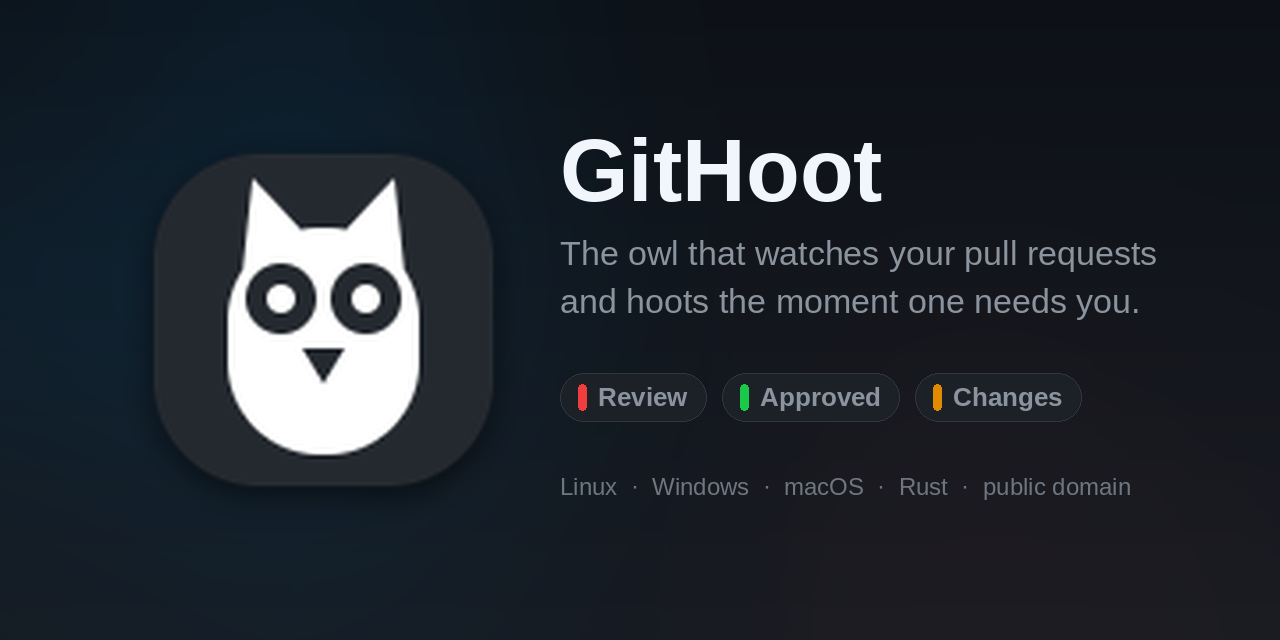
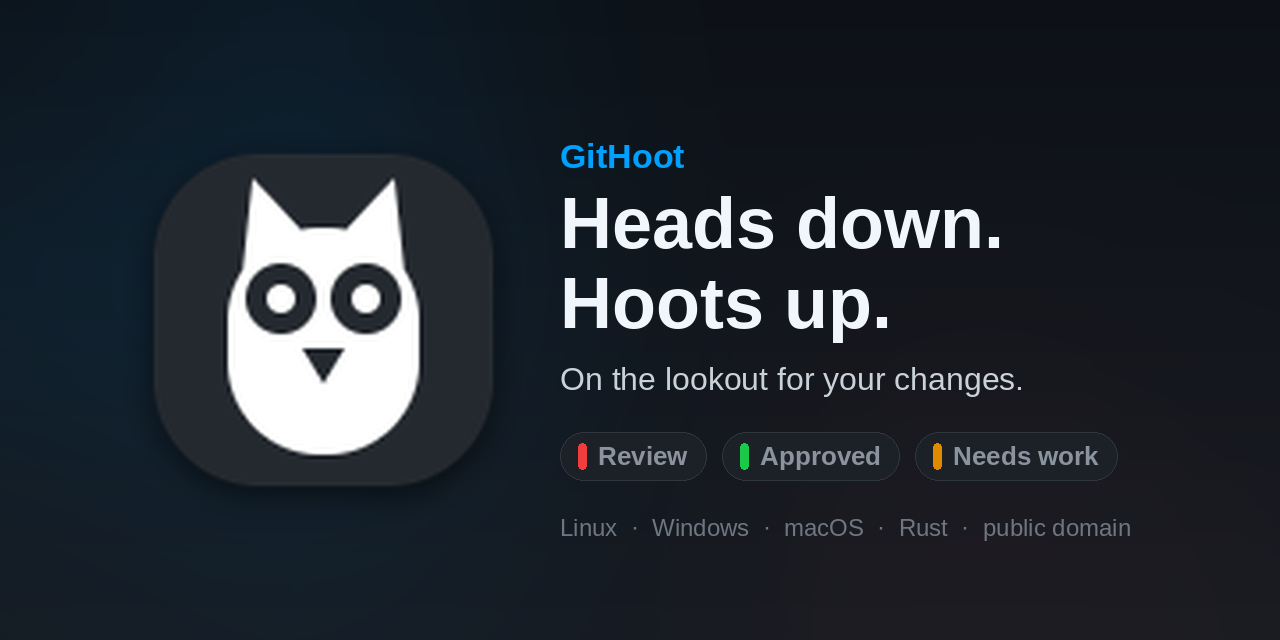
Give the README and social preview a catchier pitch

diff --git a/scripts/make-social-preview.py b/scripts/make-social-preview.py
@@ -172,16 +172,19 @@ def banner() -> None:
 
     d = ImageDraw.Draw(img)
     x = 560
-    d.text((x, 201), "GitHoot", font=font(SANS_BOLD, 88), fill=TITLE, anchor="ls")
-    d.text((x, 265), "The owl that watches your pull requests", font=font(SANS, 34), fill=MUTED, anchor="ls")
-    d.text((x, 313), "and hoots the moment one needs you.", font=font(SANS, 34), fill=MUTED, anchor="ls")
+    # The name small, the line big: on a 400px card the hook is what has to read, and the name is
+    # already in the repository title above it.
+    d.text((x, 168), "GitHoot", font=font(SANS_BOLD, 34), fill=BLUE, anchor="ls")
+    d.text((x, 248), "Heads down.", font=font(SANS_BOLD, 72), fill=TITLE, anchor="ls")
+    d.text((x, 328), "Hoots up.", font=font(SANS_BOLD, 72), fill=TITLE, anchor="ls")
+    d.text((x, 390), "On the lookout for your changes.", font=font(SANS, 32), fill=(201, 209, 217), anchor="ls")
 
     f = font(SANS_BOLD, 26)
     cx = x
-    for label, colour in (("Review", RED), ("Approved", GREEN), ("Changes", AMBER)):
-        cx = pill(d, cx, 373, label, colour, f) + 16
+    for label, colour in (("Review", RED), ("Approved", GREEN), ("Needs work", AMBER)):
+        cx = pill(d, cx, 432, label, colour, f) + 16
 
-    d.text((x, 495), "Linux  ·  Windows  ·  macOS  ·  Rust  ·  public domain", font=font(SANS, 24), fill=FAINT, anchor="ls")
+    d.text((x, 536), "Linux  ·  Windows  ·  macOS  ·  Rust  ·  public domain", font=font(SANS, 24), fill=FAINT, anchor="ls")
 
     img.convert("RGB").save(OUT_BANNER, optimize=True)
     print(f"wrote {OUT_BANNER.relative_to(ROOT)} ({img.width}x{img.height})")

diff --git a/README.md b/README.md
@@ -1,8 +1,11 @@
 <div align="center">
 
-<img src="docs/social-preview.png" alt="GitHoot — the owl that watches your pull requests" width="760">
+<img src="docs/social-preview.png" alt="GitHoot: heads down, hoots up" width="760">
 
-### A tray owl that watches your pull requests and hoots the moment one needs you.
+### Heads down. Hoots up.
+
+An owl in your system tray, on the lookout for your changes on GitHub and GitLab.<br>
+It lights up when something needs you, and hoots once when it is news.
 
 [![Release](https://img.shields.io/github/v/release/HerrDerb/githoot?label=release&color=1ac94a)](../../releases/latest)
 [![CI](https://github.com/HerrDerb/githoot/actions/workflows/ci.yml/badge.svg)](../../actions/workflows/ci.yml)
@@ -18,29 +21,27 @@
 
 ## Why
 
-- **In sync.** It asks GitHub itself, at least every 60 seconds. Email tells you once and then goes
-  stale; a bar here is true right now, and clears itself the moment you act.
-- **In view.** Always on screen, no tab to open and no inbox to sweep. One glance says whether a
-  teammate is waiting on you.
-- **It hoots.** A pull request you have not been told about makes a sound, so you react in minutes
-  instead of at the next sweep. It knows the difference between a new one and GitHub's search index
-  handing the same one back → [the hoot](docs/hoot.md).
+- **Stay in flow.** No tab to refresh, no inbox to sweep. The owl asks your forge itself, at least once
+  a minute, so you can keep your head down.
+- **Know at a glance.** Three coloured bars on one icon say whether anything is waiting on you. Act on
+  it and the bar clears itself.
+- **Hear only news.** One hoot when something new needs you, silence the rest of the time. It can tell
+  a new pull request from the same one handed back by a flaky search index → [the hoot](docs/hoot.md).
 
-Three things it watches:
+What it is on the lookout for:
 
 | | |
 |:---:|---|
 | <img src="docs/icons/tray_review.png" height="26"> | **somebody wants your review** |
-| <img src="docs/icons/tray_merge.png" height="26"> | **your pull request was approved** |
-| <img src="docs/icons/tray_changes.png" height="26"> | **your pull request needs work from you** |
+| <img src="docs/icons/tray_merge.png" height="26"> | **your change was approved** |
+| <img src="docs/icons/tray_changes.png" height="26"> | **your change needs work** |
 
-Every lit bar has a menu entry that takes you to it, with the count on the label. Clicking one opens
-**a page GitHoot renders itself**, listing exactly the pull requests that bar counted, with their check
-state and every reviewer's verdict — because no GitHub search URL can express what two of the three
-bars count → [the PR page](docs/pr-page.md).
+Every lit bar has a menu entry with its count. Clicking one opens **a page GitHoot renders itself**,
+listing exactly what that bar counted, with check states and every reviewer's verdict. No forge search
+URL can express what two of the three bars count → [the PR page](docs/pr-page.md).
 
-No `gh` CLI, no token to paste, nothing to register: sign-in is GitHub's own Device Flow, and the
-device code is already on your clipboard when the dialog appears.
+No CLI to install, no token to paste: you sign in with your forge's own device flow, and the code is
+already on your clipboard when the dialog appears.
 
 ## Get it
 
